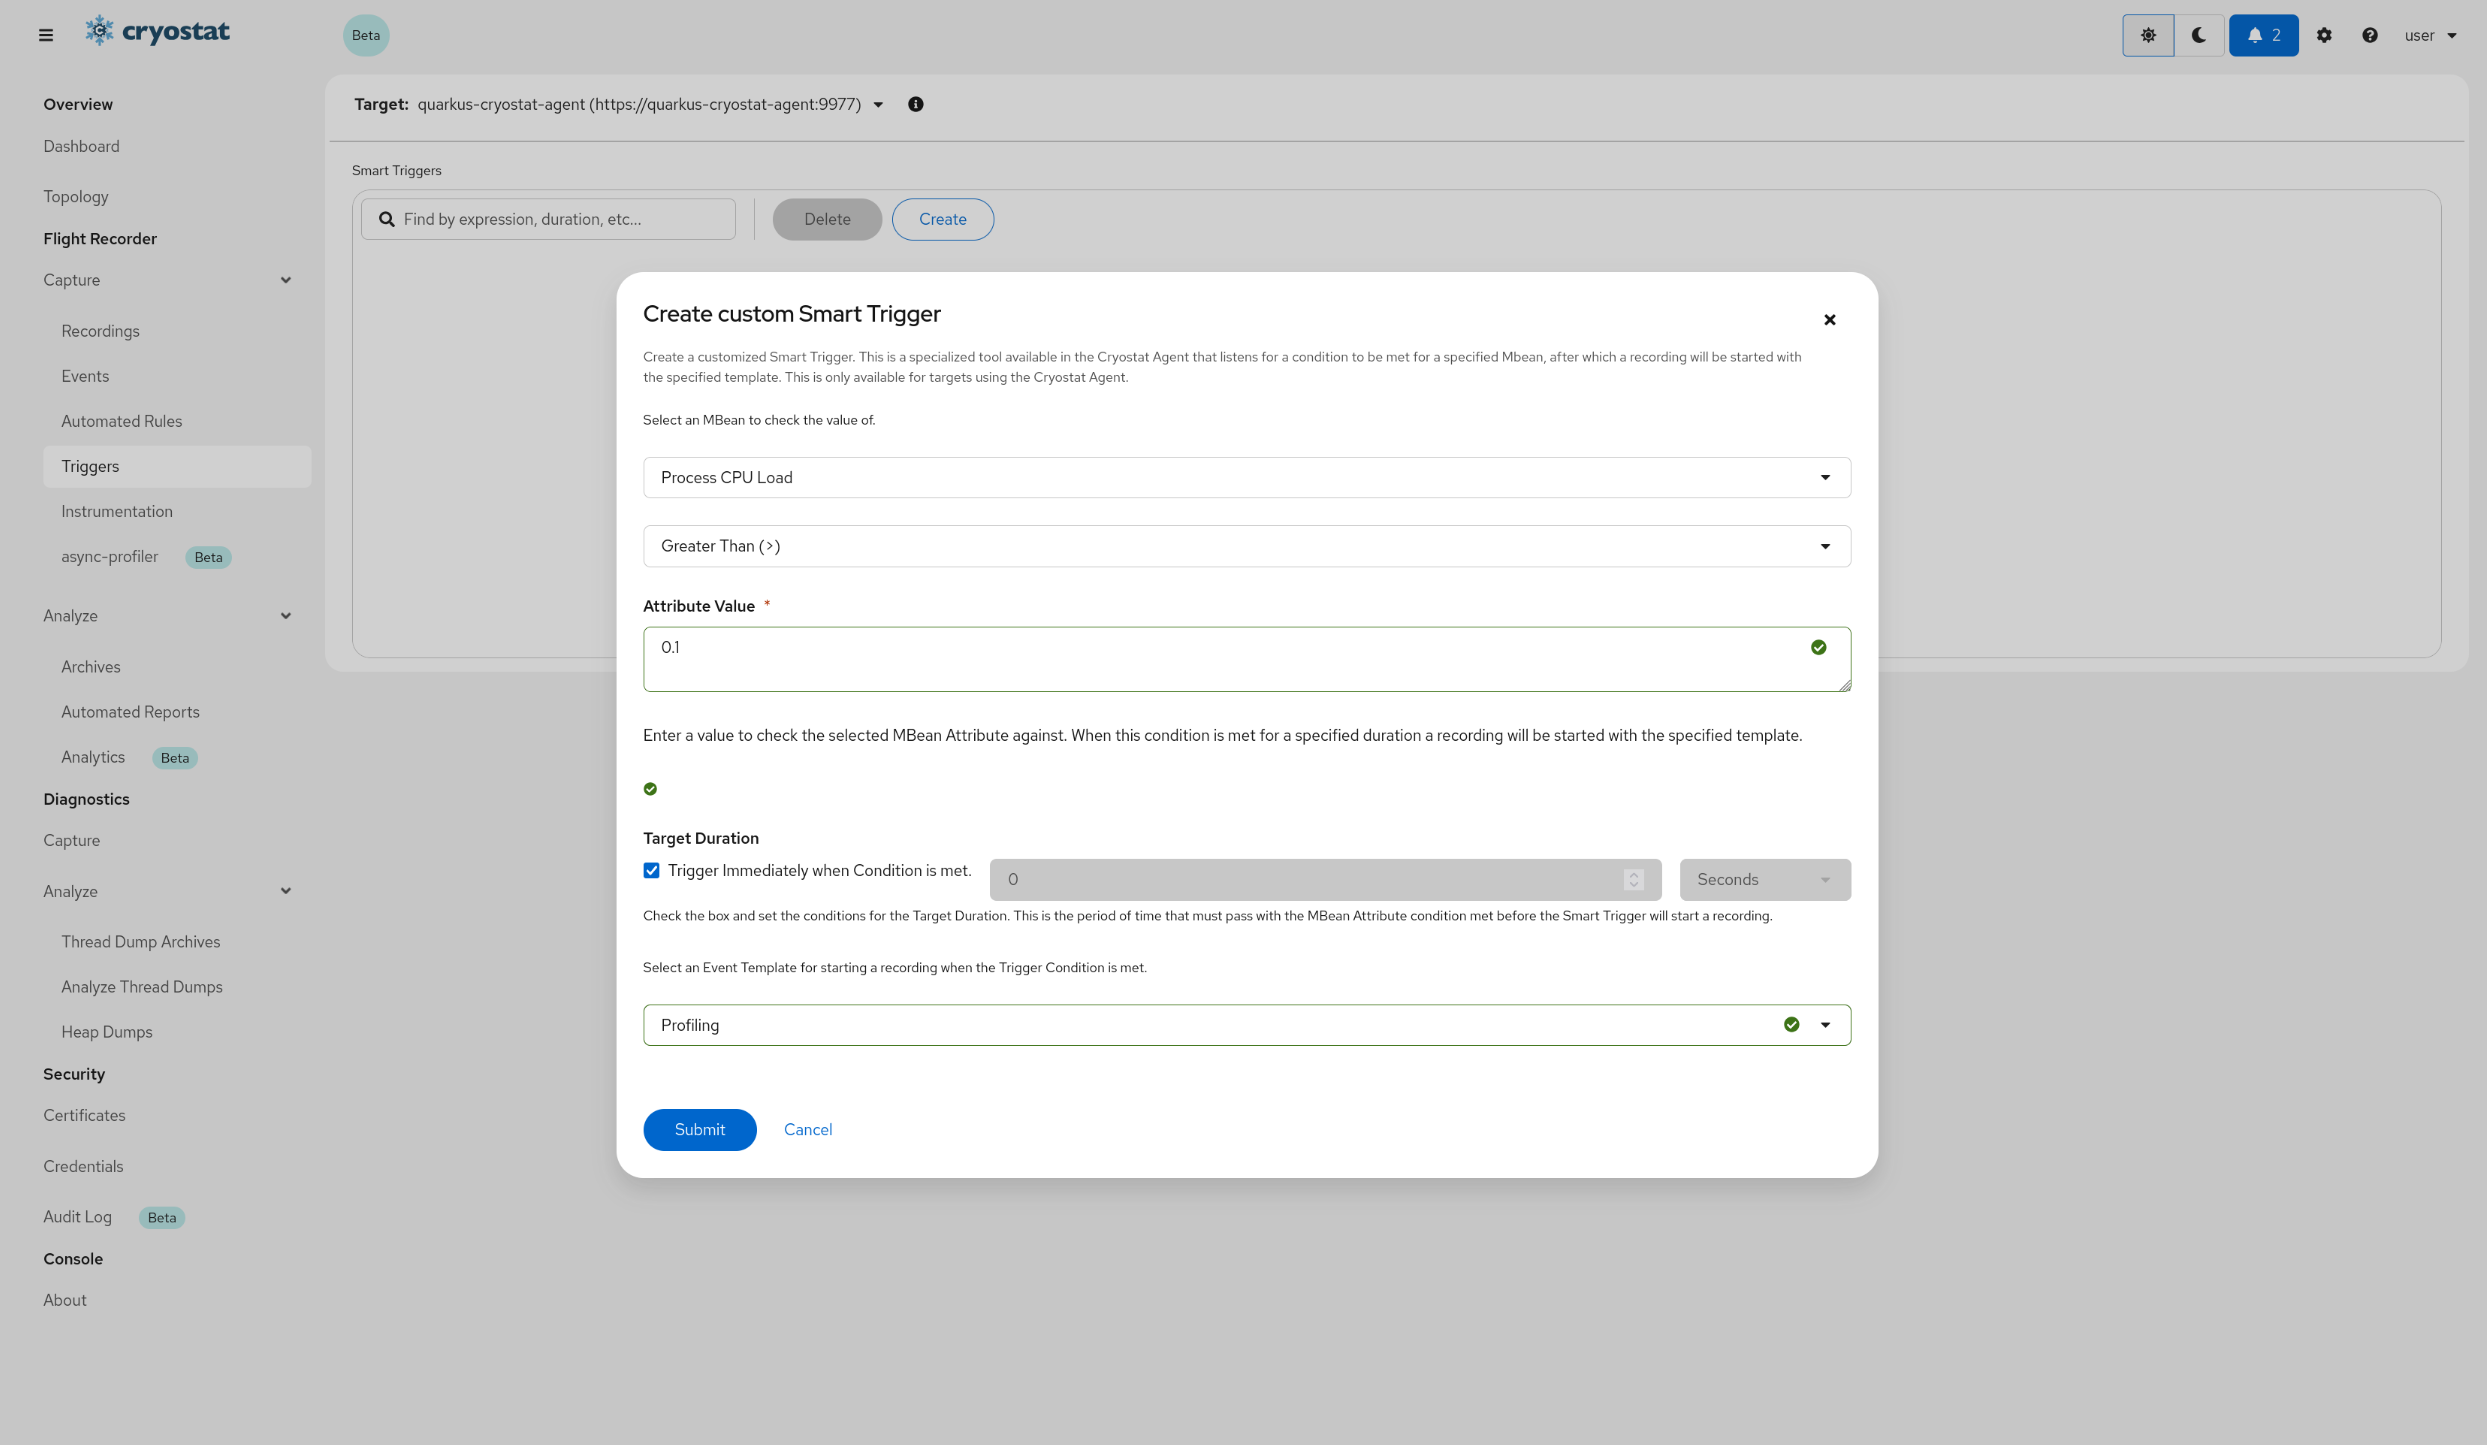
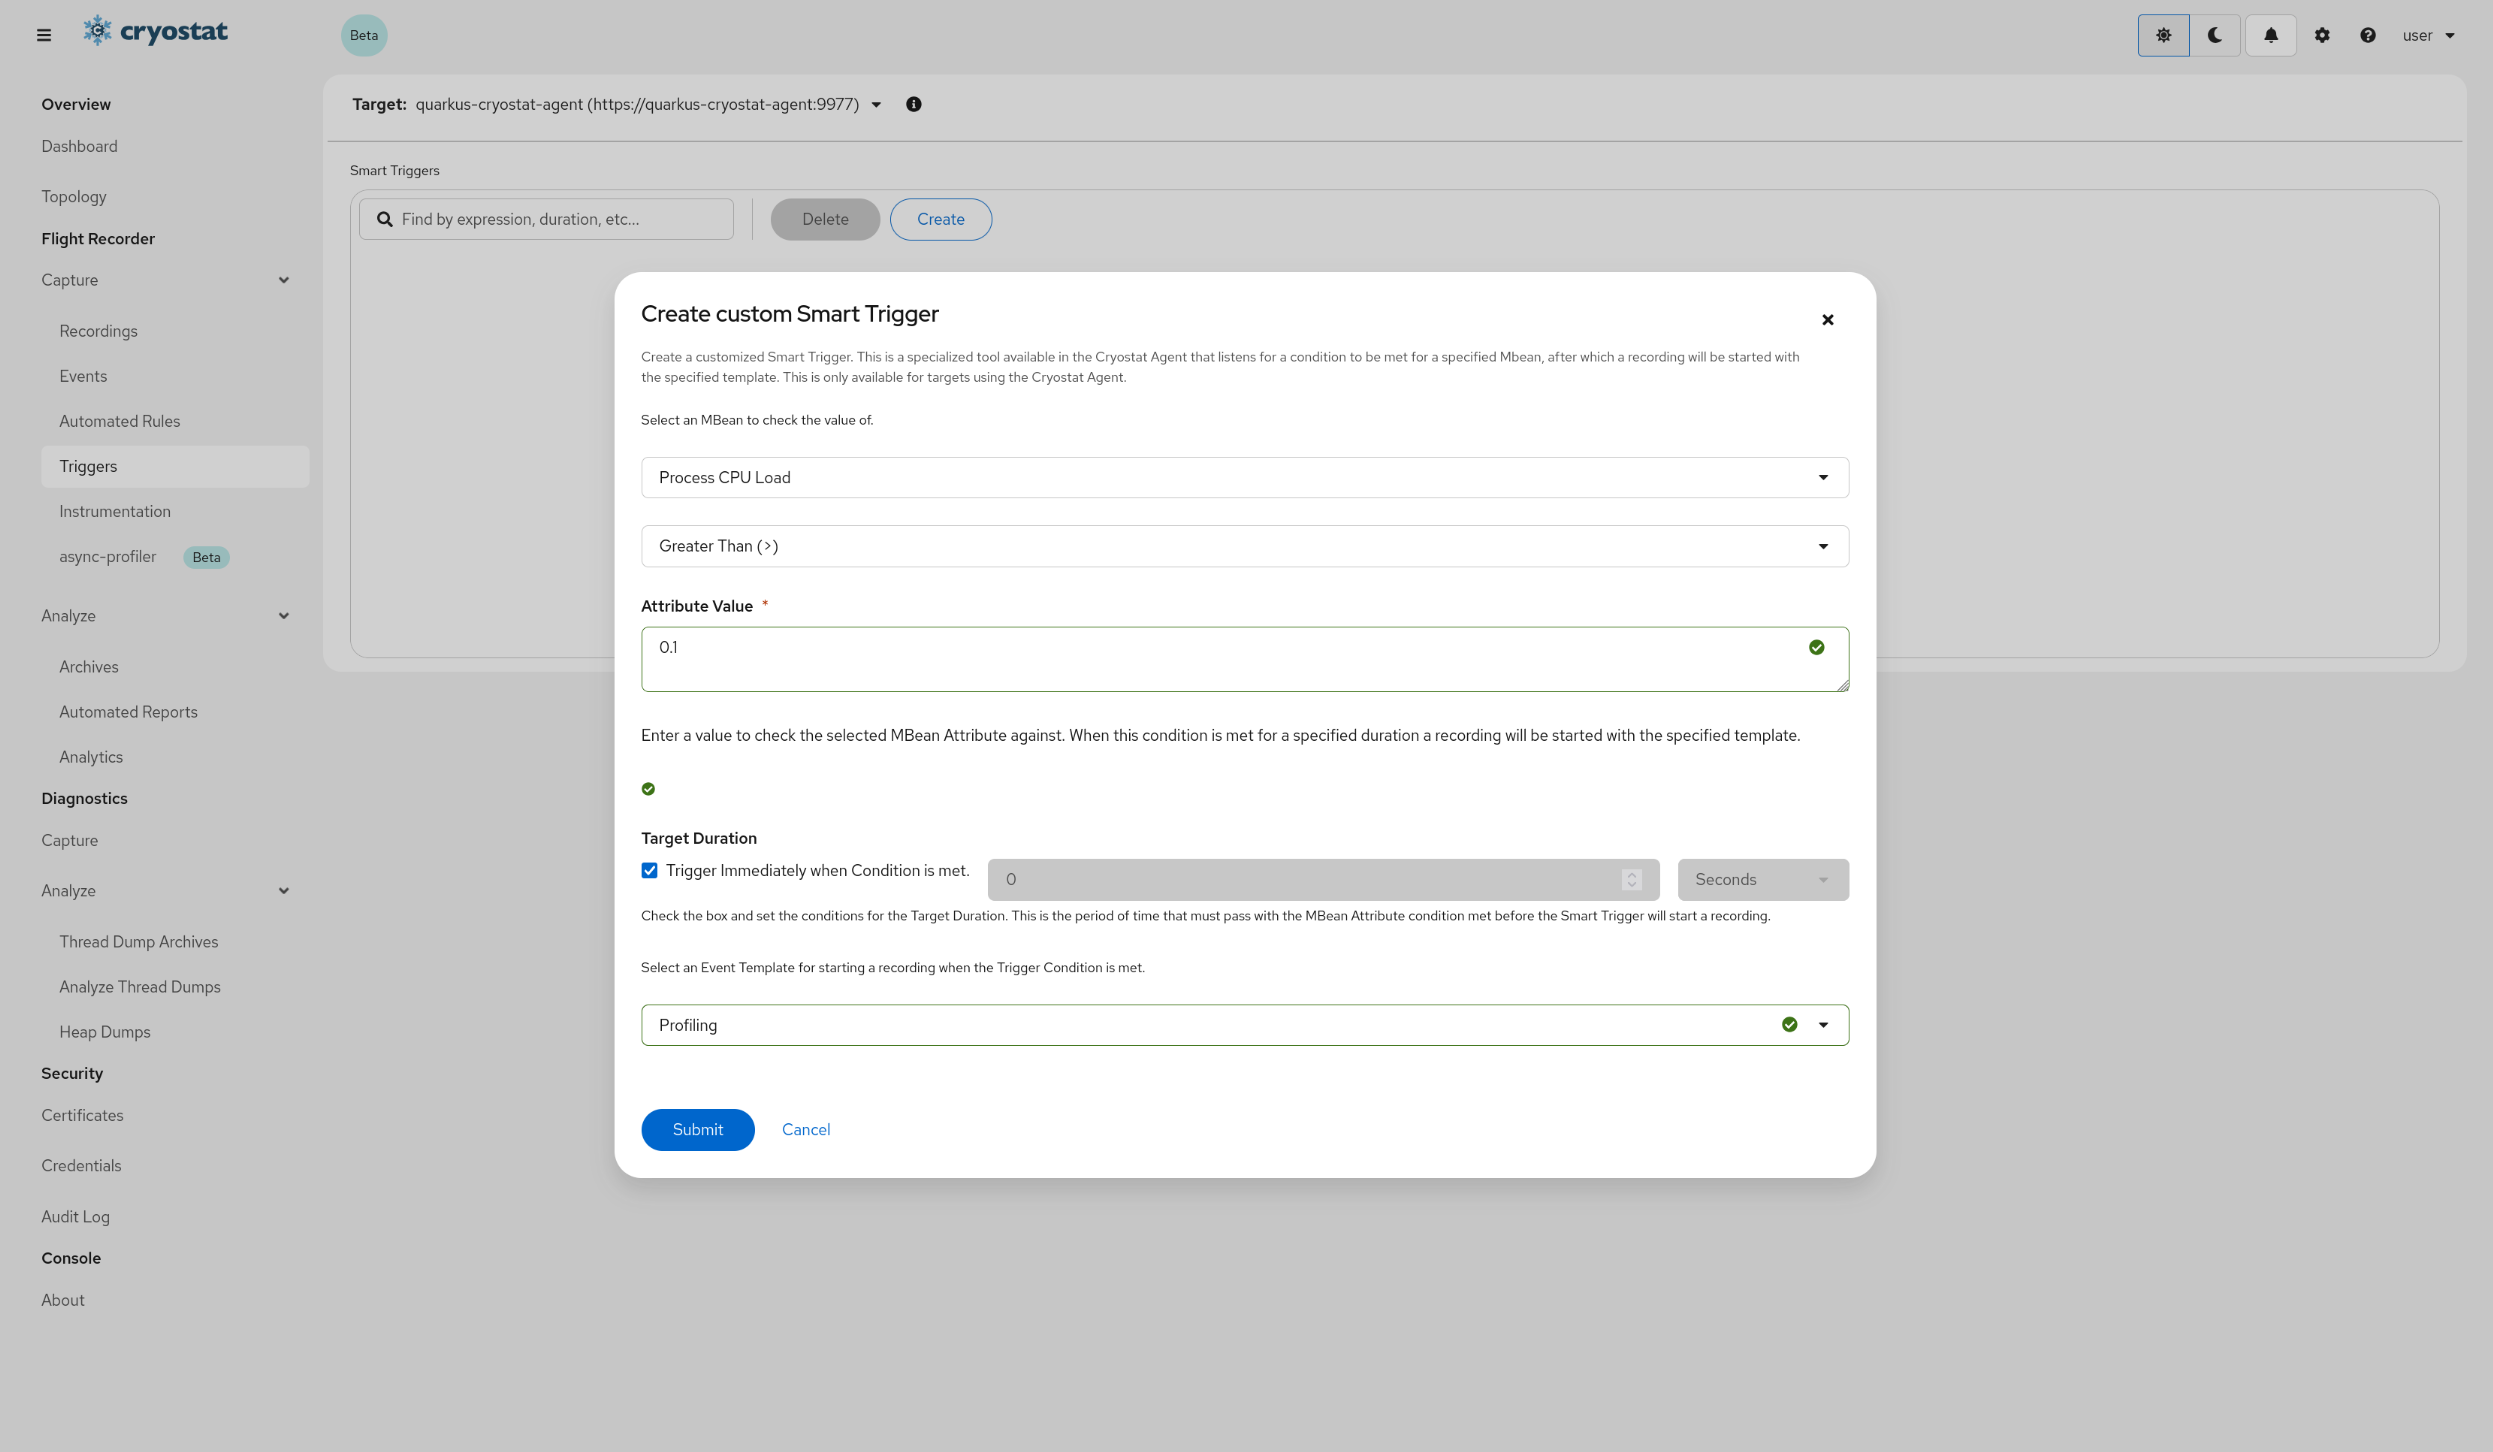
Update smart triggers screenshot, nav

diff --git a/guides/_subsections/using-smart-triggers.md b/guides/_subsections/using-smart-triggers.md
@@ -75,10 +75,10 @@ This example uses the same custom trigger criteria as the preceding examples.
     <details>
       <summary>Using the Cryostat UI</summary>
       {% include howto_step.html
-      summary="Navigate to the <i>Capture/Smart Triggers</i> view"
+      summary="Navigate to the <i>Capture/Triggers</i> view"
       image-name="4.2.0/create-a-smart-trigger-1.png"
       caption="
-        After navigating to the Capture/Smart Triggers page and clicking the Create button, a form will be displayed allowing for the creation of smart triggers. Simply select the MBean Attribute for the trigger and set the condition, then select a target duration if desired and select an event template to be used. 
+        After navigating to the Capture/Triggers page and clicking the Create button, a form will be displayed allowing for the creation of smart triggers. Simply select the MBean Attribute for the trigger and set the condition, then select a target duration if desired and select an event template to be used. 
       "
     %}
     {% include howto_step.html